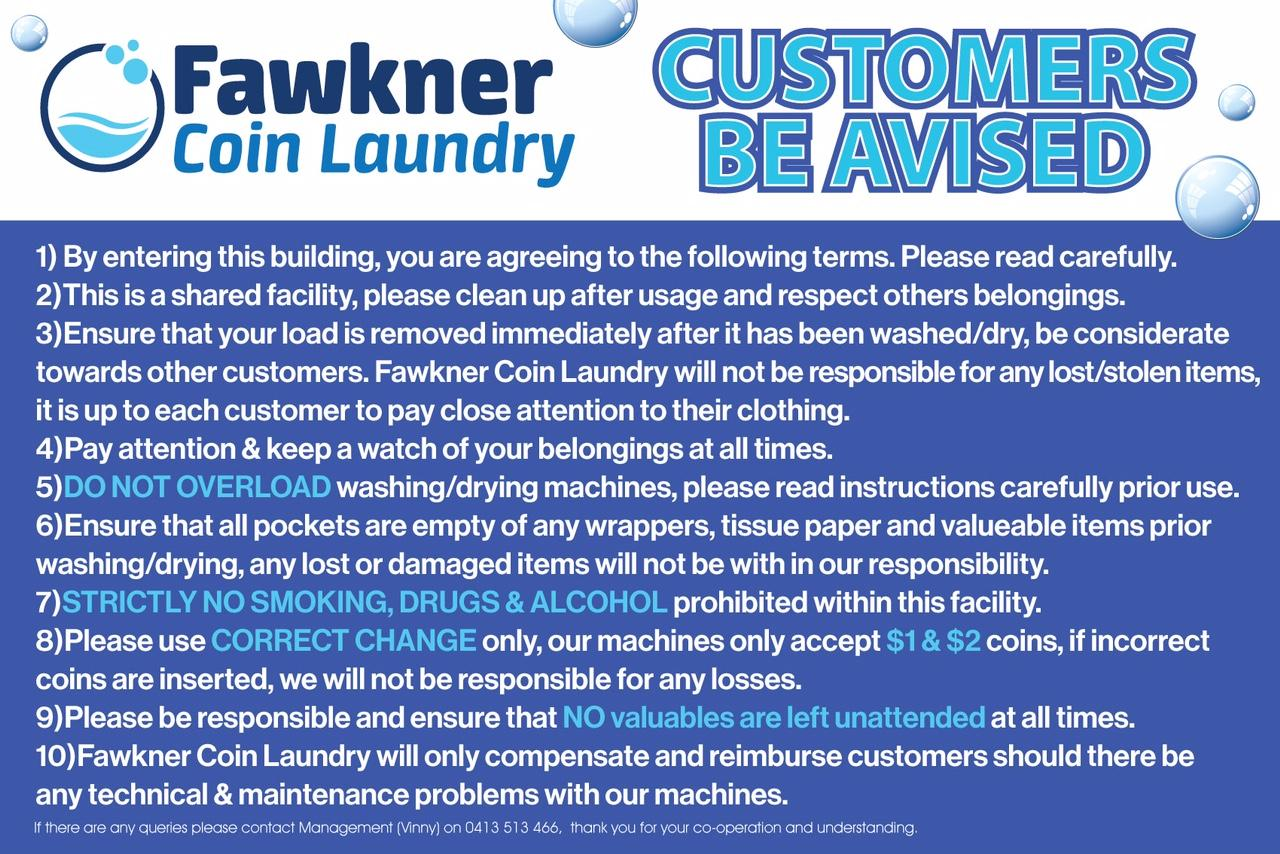
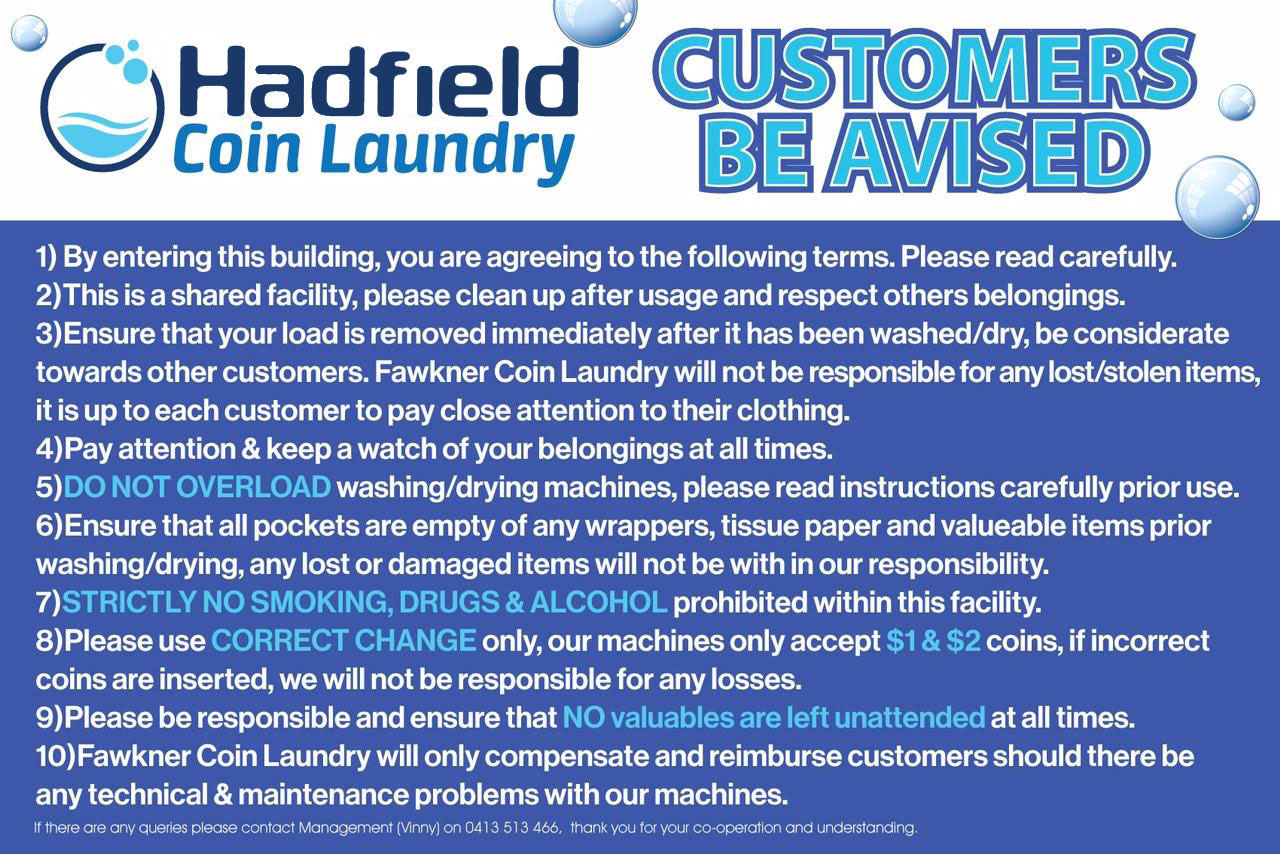
update new page

Changed region(s): [[0.125, 0.0304, 0.4688, 0.1522]]

diff --git a/wp-content/themes/illdy/style.css b/wp-content/themes/illdy/style.css
@@ -81,3 +81,20 @@ Use it to make something cool, have fun, and share what you've learned with othe
     font-family: "Lato";
     color: #000000 !important;
 }
+
+
+.delivery-container
+{
+    margin: 45px auto;
+}
+.delivery-container .call-pickup-section,
+.delivery-container .collect-section,
+.delivery-container .delivery-section
+{
+    text-align: center;
+    margin: 45px auto;
+    border-radius: 25px;
+    border: 3px solid #28c2e5;
+    padding: 25px;
+    margin-right: 15px;
+}

diff --git a/wp-content/themes/illdy/page-templates/template-dellivery.php b/wp-content/themes/illdy/page-templates/template-dellivery.php
@@ -1,0 +1,48 @@
+<?php
+/**
+ *  Template name: Delivery
+ *
+ *  The template for Delivery
+ *
+ *  @package WordPress
+ *  @subpackage illdy
+ */
+?>
+<?php get_header(); ?>
+<div class="container delivery-container">
+    <div class="row">
+        <div class="col-sm-12">
+            <div class="page-header">
+                <h3 style="color: #1cb9e2;text-transform: uppercase">Delivery Details</h3>
+            </div>
+        </div><!--/.col-sm-12-->
+    </div><!--/.row-->
+    <div class="row">
+        <div class="col-sm-4">
+            <div class="call-pickup-section">
+                <img src="<?php echo esc_url( get_template_directory_uri() . '/layout/images/call-pickup.png' ) ?>" style="width:100%"/>
+            </div>
+        </div>
+        <div class="col-sm-4">
+            <div class="collect-section">
+                <img src="<?php echo esc_url( get_template_directory_uri() . '/layout/images/collect.png' ) ?>" style="width:100%"/>
+            </div>
+        </div>
+        <div class="col-sm-4">
+            <div class="delivery-section">
+                <img src="<?php echo esc_url( get_template_directory_uri() . '/layout/images/delivery.png' ) ?>" style="width:100%"/>
+            </div>
+        </div>
+    </div>
+    <div class="row">
+        <div class="col-sm-8">
+        <h6 style="font-color:#28c2e5">
+            Free delivery/pick up for any booking order has or more $50
+        </h6>
+        </div>
+        <div class="col-sm-4">
+            <a href="/contact" class="contact-btn btn btn-info">BOOK NOW</a>
+        </div>
+    </div>
+</div><!--/.container-->
+<?php get_footer(); ?>

diff --git a/wp-content/themes/illdy/page-templates/template-price.php b/wp-content/themes/illdy/page-templates/template-price.php
@@ -28,21 +28,21 @@
 
                 <tbody>
                 <tr class="info">
-                    <th scope="row">5 kg</th>
+                    <th scope="row">10 kg</th>
                     <td>$5</td>
                     <td>$2</td>
                     <td>$4</td>
                     <td>$15</td>
                 </tr>
                 <tr>
-                    <th scope="row">7 kg</th>
+                    <th scope="row">12 kg</th>
                     <td>$7</td>
                     <td>$2</td>
                     <td>$4</td>
                     <td>$17</td>
                 </tr>
                 <tr class="active">
-                    <th scope="row">10 kg</th>
+                    <th scope="row">14 kg</th>
                     <td>$9</td>
                     <td>$2</td>
                     <td>$5</td>
@@ -50,9 +50,9 @@
                 </tr>
                 </tbody>
             </table>
-
-
-
+            <p>
+               Note:  Free Labour service. If you supply your own laundry  detergent, we will give you discounted price
+            </p>
         </div><!--/.col-sm-12-->
     </div><!--/.row-->
     <div class="row">

diff --git a/wp-content/themes/illdy/page-templates/template-conditions.php b/wp-content/themes/illdy/page-templates/template-conditions.php
@@ -13,21 +13,7 @@
     <div class="row">
         <div class="col-sm-12">
             <div class="page-header">
-                <h3 style="color: #1cb9e2;text-transform: uppercase">Coin Laundry Terms</h3>
-            </div>
-        </div><!--/.col-sm-12-->
-    </div><!--/.row-->
-    <div class="row">
-        <div class="col-sm-12">
-            <div class="dry-clean-terms-section" style="text-align: center ;margin: 45px 0;">
-                <img src="<?php echo esc_url( get_template_directory_uri() . '/layout/images/coinlaundry-terms.jpg' ) ?>"/>
-            </div>
-        </div>
-    </div>
-    <div class="row">
-        <div class="col-sm-12">
-            <div class="page-header">
-                <h3 style="color: #1cb9e2;text-transform: uppercase">Dry Cleaner Terms</h3>
+                <h3 style="color: #1cb9e2;text-transform: uppercase">Hadfield Superwash Laundry Terms</h3>
             </div>
         </div><!--/.col-sm-12-->
     </div><!--/.row-->
